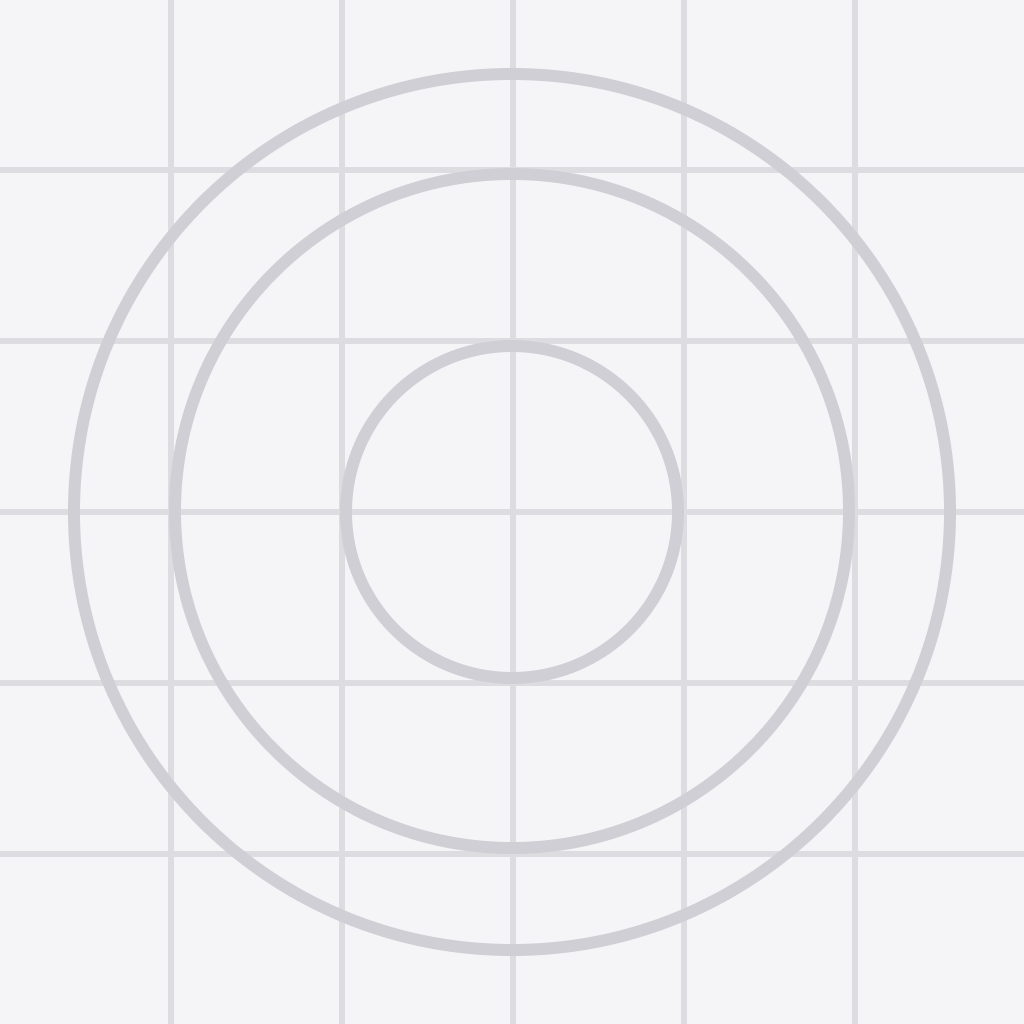
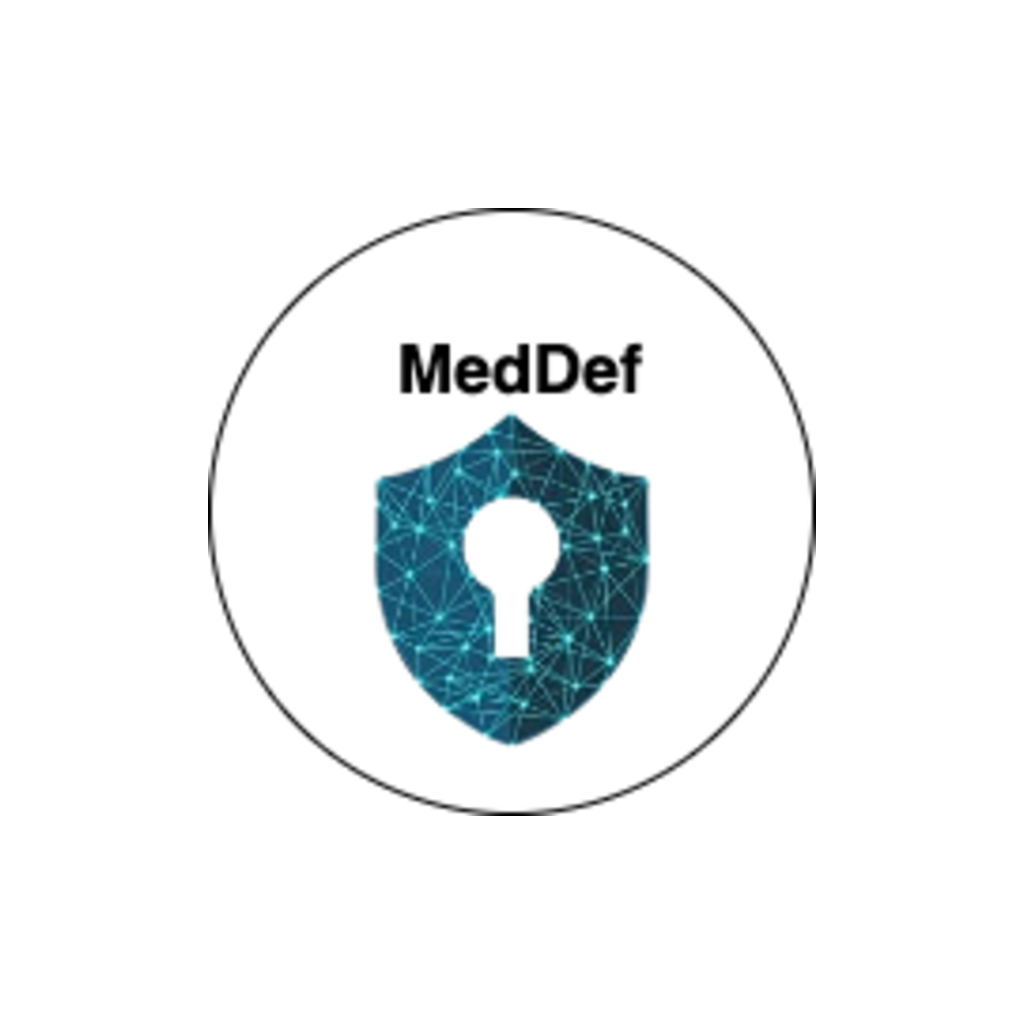
mobile: app assets, splash, error boundary, overview screen updates
- Update app.json, package.json, package-lock.json
- Update assets: icon.png, adaptive-icon.png, add logo.png
- Update App.tsx and index.ts entry
- Update src/screens/OverviewScreen.tsx
- Add src/components/AppErrorBoundary.tsx
- Add src/lib/splash.ts
- Update BUILD.md

Changed region(s): [[0.0, 0.0, 1.0, 1.0]]

diff --git a/src/components/AppErrorBoundary.tsx b/src/components/AppErrorBoundary.tsx
@@ -1,0 +1,47 @@
+import React, { Component, type ErrorInfo, type ReactNode } from "react";
+import { StyleSheet, Text, View } from "react-native";
+import { hideSplashScreen } from "@/lib/splash";
+
+type Props = { children: ReactNode };
+type State = { error: Error | null };
+
+export class AppErrorBoundary extends Component<Props, State> {
+  state: State = { error: null };
+
+  static getDerivedStateFromError(error: Error): State {
+    return { error };
+  }
+
+  componentDidCatch(error: Error, info: ErrorInfo): void {
+    console.error("MedDef root error:", error, info.componentStack);
+    void hideSplashScreen();
+  }
+
+  render(): ReactNode {
+    if (this.state.error) {
+      return (
+        <View style={styles.wrap}>
+          <Text style={styles.title}>MedDef could not start</Text>
+          <Text style={styles.msg}>{this.state.error.message}</Text>
+          <Text style={styles.hint}>
+            If you installed a debug APK, run Metro with `npm start` or install a
+            release build (`npm run android:apk:release`).
+          </Text>
+        </View>
+      );
+    }
+    return this.props.children;
+  }
+}
+
+const styles = StyleSheet.create({
+  wrap: {
+    flex: 1,
+    justifyContent: "center",
+    padding: 24,
+    backgroundColor: "#0f172a",
+  },
+  title: { color: "#f8fafc", fontSize: 18, fontWeight: "700", marginBottom: 12 },
+  msg: { color: "#fca5a5", fontSize: 14, marginBottom: 16 },
+  hint: { color: "#94a3b8", fontSize: 13, lineHeight: 20 },
+});

diff --git a/App.tsx b/App.tsx
@@ -1,12 +1,11 @@
+import { AppErrorBoundary } from "@/components/AppErrorBoundary";
 import { ApiProvider } from "@/context/ApiContext";
 import { useAppUpdateCheck } from "@/hooks/useAppUpdate";
+import { hideSplashAfterReady } from "@/lib/splash";
 import NavigationRoot from "@/navigation/MainTabs";
-import * as SplashScreen from "expo-splash-screen";
-import React, { useEffect } from "react";
+import React, { useCallback, useState } from "react";
 import { GestureHandlerRootView } from "react-native-gesture-handler";
 import { SafeAreaProvider } from "react-native-safe-area-context";
-
-const SPLASH_MIN_MS = 600;
 
 function AppRoot() {
   useAppUpdateCheck();
@@ -14,20 +13,23 @@ function AppRoot() {
 }
 
 export default function App() {
-  useEffect(() => {
-    const id = setTimeout(() => {
-      void SplashScreen.hideAsync();
-    }, SPLASH_MIN_MS);
-    return () => clearTimeout(id);
-  }, []);
+  const [layoutReady, setLayoutReady] = useState(false);
+
+  const onRootLayout = useCallback(() => {
+    if (layoutReady) return;
+    setLayoutReady(true);
+    hideSplashAfterReady();
+  }, [layoutReady]);
 
   return (
-    <GestureHandlerRootView style={{ flex: 1 }}>
-      <SafeAreaProvider>
-        <ApiProvider>
-          <AppRoot />
-        </ApiProvider>
-      </SafeAreaProvider>
-    </GestureHandlerRootView>
+    <AppErrorBoundary>
+      <GestureHandlerRootView style={{ flex: 1 }} onLayout={onRootLayout}>
+        <SafeAreaProvider>
+          <ApiProvider>
+            <AppRoot />
+          </ApiProvider>
+        </SafeAreaProvider>
+      </GestureHandlerRootView>
+    </AppErrorBoundary>
   );
 }

diff --git a/src/lib/splash.ts b/src/lib/splash.ts
@@ -1,0 +1,35 @@
+import * as SplashScreen from "expo-splash-screen";
+
+/** Hard cap so native splash never stays forever if JS hangs or hideAsync fails. */
+export const SPLASH_MAX_MS = 5000;
+
+const SPLASH_MIN_MS = 600;
+
+let hidden = false;
+let failsafeScheduled = false;
+
+export async function hideSplashScreen(): Promise<void> {
+  if (hidden) return;
+  hidden = true;
+  try {
+    await SplashScreen.hideAsync();
+  } catch {
+    /* already hidden or native module unavailable */
+  }
+}
+
+/** Call once from index.ts before React mounts. */
+export function scheduleSplashFailsafe(): void {
+  if (failsafeScheduled) return;
+  failsafeScheduled = true;
+  setTimeout(() => {
+    void hideSplashScreen();
+  }, SPLASH_MAX_MS);
+}
+
+/** Hide after UI is laid out, respecting a short minimum display time. */
+export function hideSplashAfterReady(): void {
+  setTimeout(() => {
+    void hideSplashScreen();
+  }, SPLASH_MIN_MS);
+}

diff --git a/index.ts b/index.ts
@@ -1,14 +1,12 @@
 import "react-native-gesture-handler";
 import * as SplashScreen from "expo-splash-screen";
-
 import { registerRootComponent } from "expo";
+import { scheduleSplashFailsafe } from "./src/lib/splash";
 
-/** Keep native splash (with `app.json` logo) visible until App hides it. */
+/** Keep native splash visible until App hides it (with a hard failsafe cap). */
 void SplashScreen.preventAutoHideAsync();
+scheduleSplashFailsafe();
 
 import App from "./App";
 
-// registerRootComponent calls AppRegistry.registerComponent('main', () => App);
-// It also ensures that whether you load the app in Expo Go or in a native build,
-// the environment is set up appropriately
 registerRootComponent(App);

diff --git a/src/screens/OverviewScreen.tsx b/src/screens/OverviewScreen.tsx
@@ -23,7 +23,7 @@ export default function OverviewScreen() {
           <View style={styles.heroTopRow}>
             <View style={styles.logoShell}>
               <Image
-                source={require("../../assets/ujn_logo.png")}
+                source={require("../../assets/logo.png")}
                 style={styles.logoImg}
                 resizeMode="contain"
               />

diff --git a/BUILD.md b/BUILD.md
@@ -1,5 +1,17 @@
 # Building MedDef for Android (EAS)
 
+## Sideload installs (USB / APK file)
+
+**Use a release APK, not debug.** `assembleDebug` / `npm run android:apk:debug` produces a build that loads JavaScript from Metro on `localhost:8081`. If Metro is not running (`npm start`), the app stays on the splash screen forever because React never mounts (logcat: `Unable to load script`, `Failed to connect to localhost/127.0.0.1:8081`).
+
+```bash
+cd meddef_mobile
+npm run android:install:release   # assembleRelease + adb install -r
+# APK: android/app/build/outputs/apk/release/meddef.apk
+```
+
+For day-to-day dev with hot reload, use `npm start` plus `npx expo run:android` (debug) on a device with USB or `adb reverse tcp:8081 tcp:8081`.
+
 The default Play Store artifact is an **AAB** (Android App Bundle). For sideloading or hosting an installable file, use an **APK** by setting `android.buildType` to `"apk"` in [`eas.json`](./eas.json) (see [Build APKs for devices](https://docs.expo.dev/build-reference/apk/)).
 
 ## One-time setup